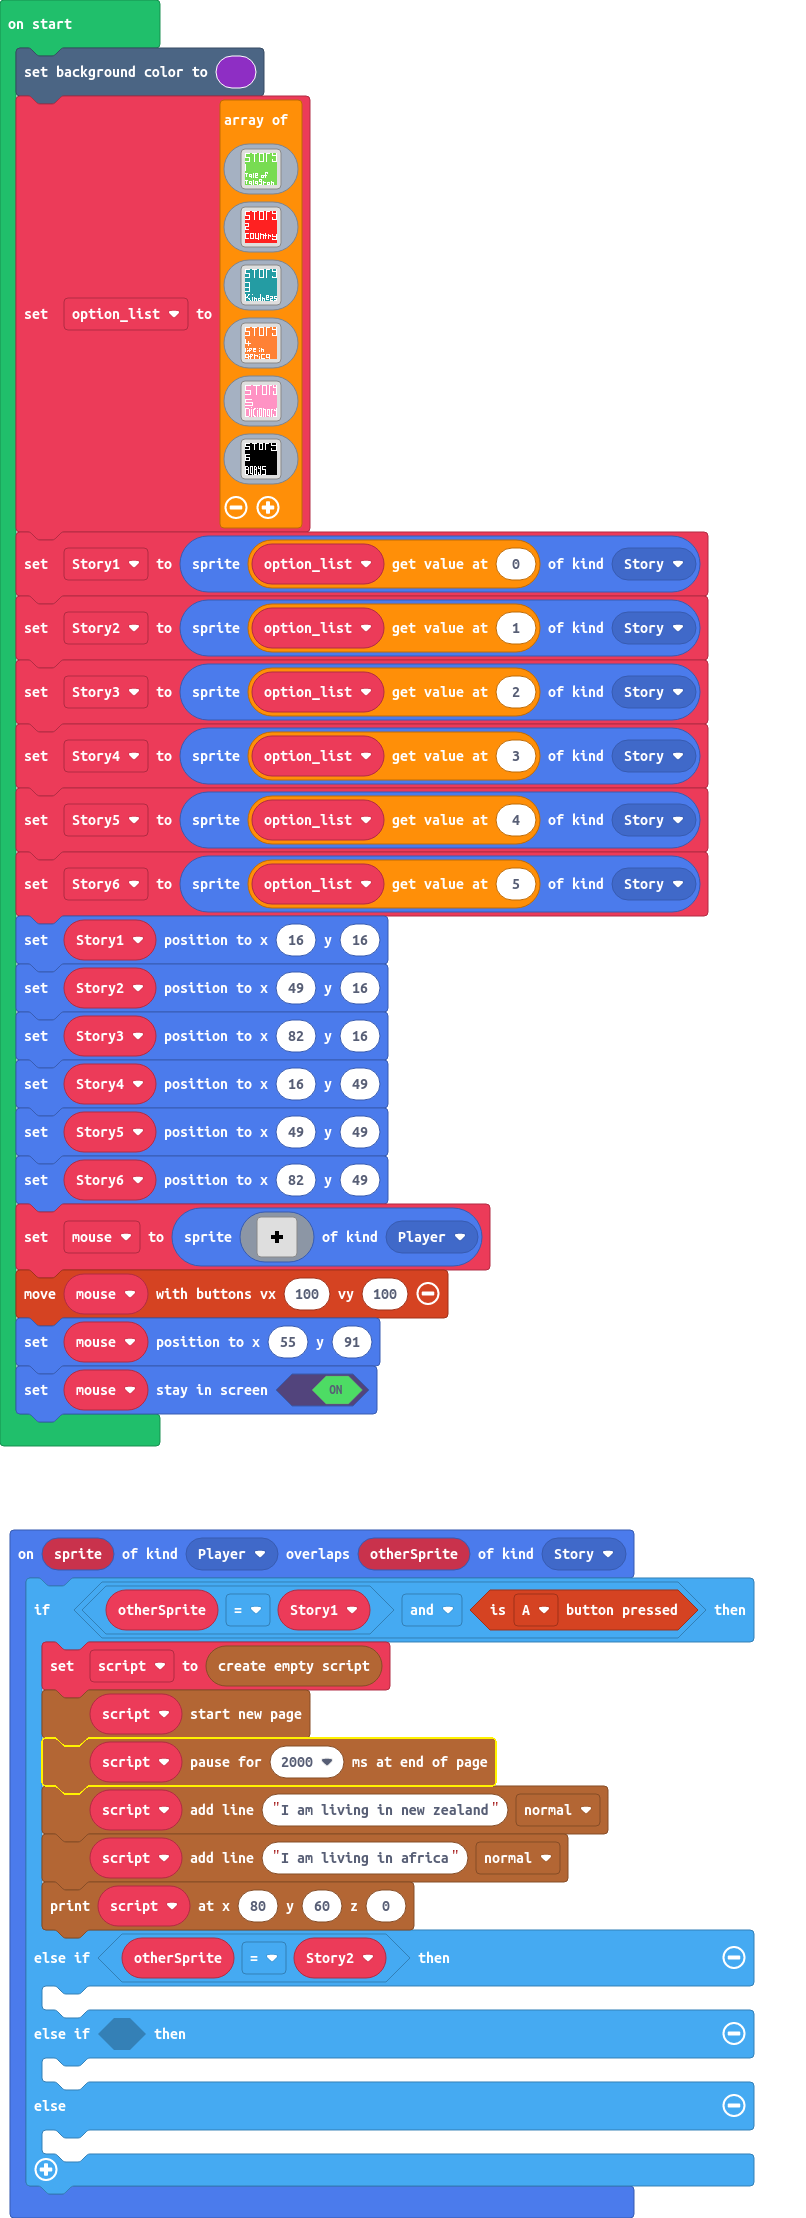
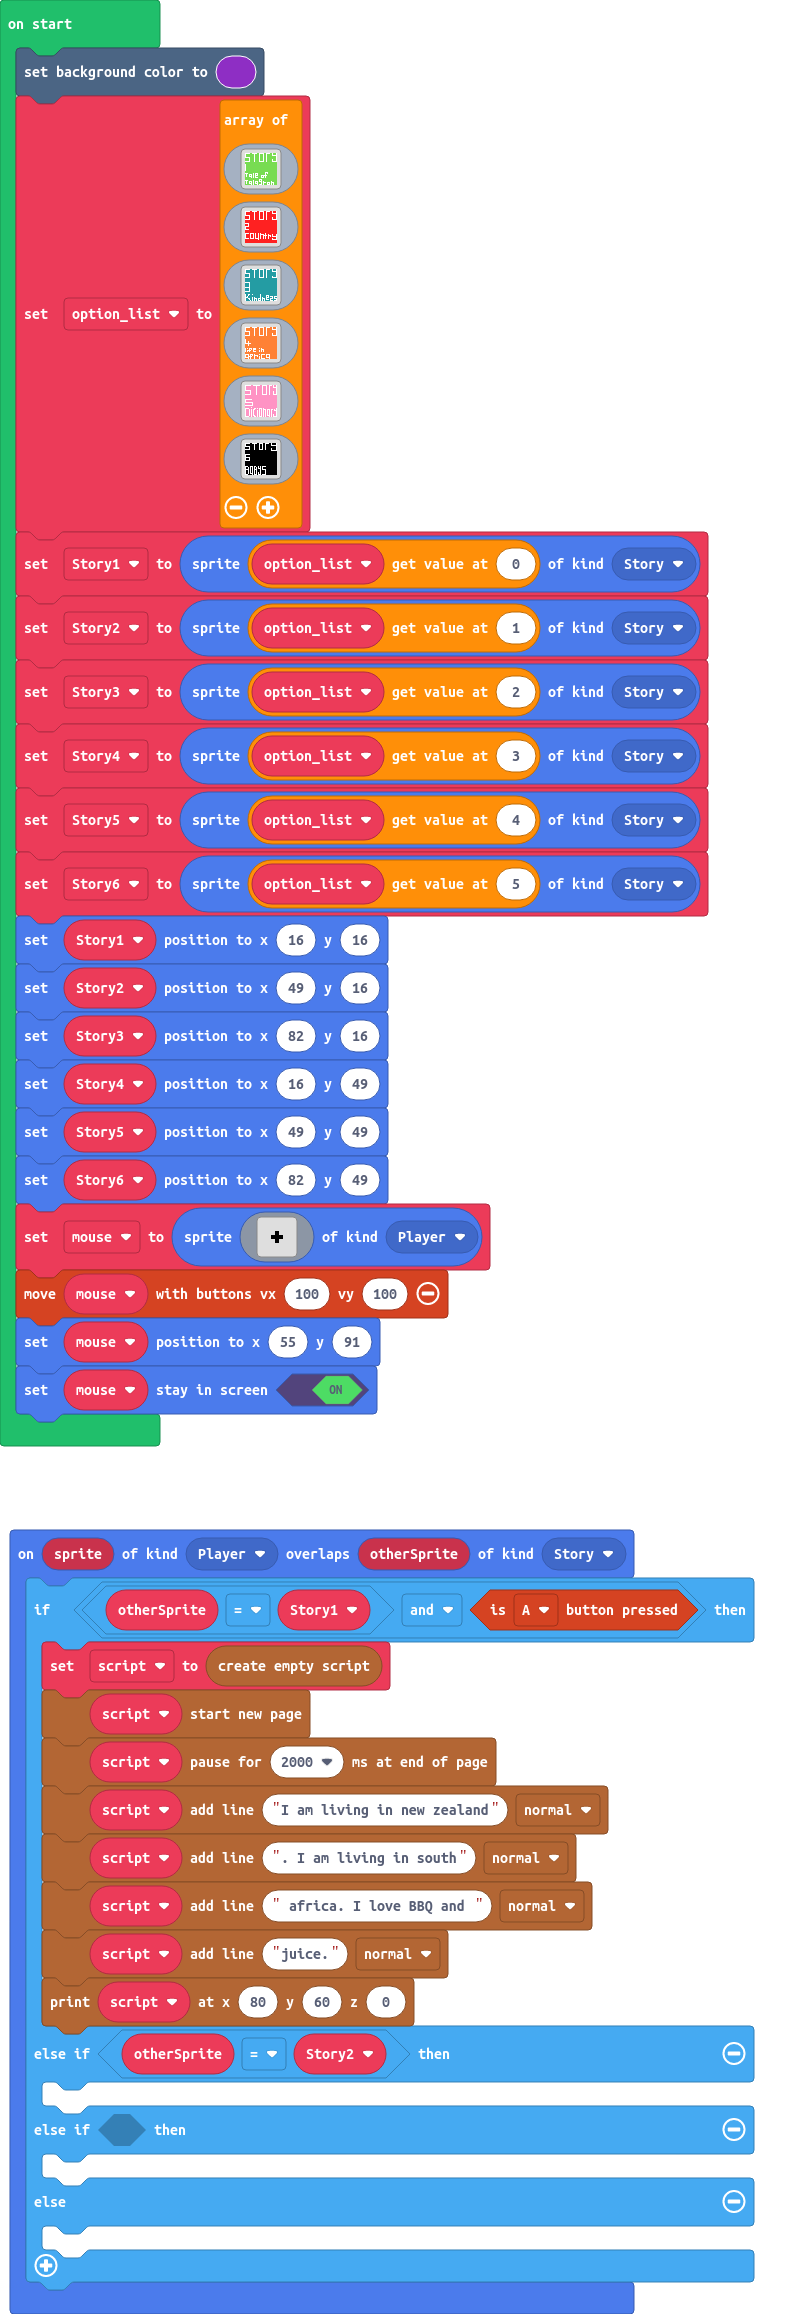
Update main.blocks, main.ts

diff --git a/main.ts b/main.ts
@@ -7,7 +7,9 @@ sprites.onOverlap(SpriteKind.Player, SpriteKind.Story, function (sprite, otherSp
         script.newPage()
         script.setPagePauseLength(2000)
         script.addLineToCurrentPage("I am living in new zealand", story.TextSpeed.Normal)
-        script.addLineToCurrentPage("I am living in africa", story.TextSpeed.Normal)
+        script.addLineToCurrentPage(". I am living in south", story.TextSpeed.Normal)
+        script.addLineToCurrentPage(" africa. I love BBQ and ", story.TextSpeed.Normal)
+        script.addLineToCurrentPage("juice.", story.TextSpeed.Normal)
         story.printScript(script, 80, 60, 0)
     } else if (otherSprite == Story2) {
     	
